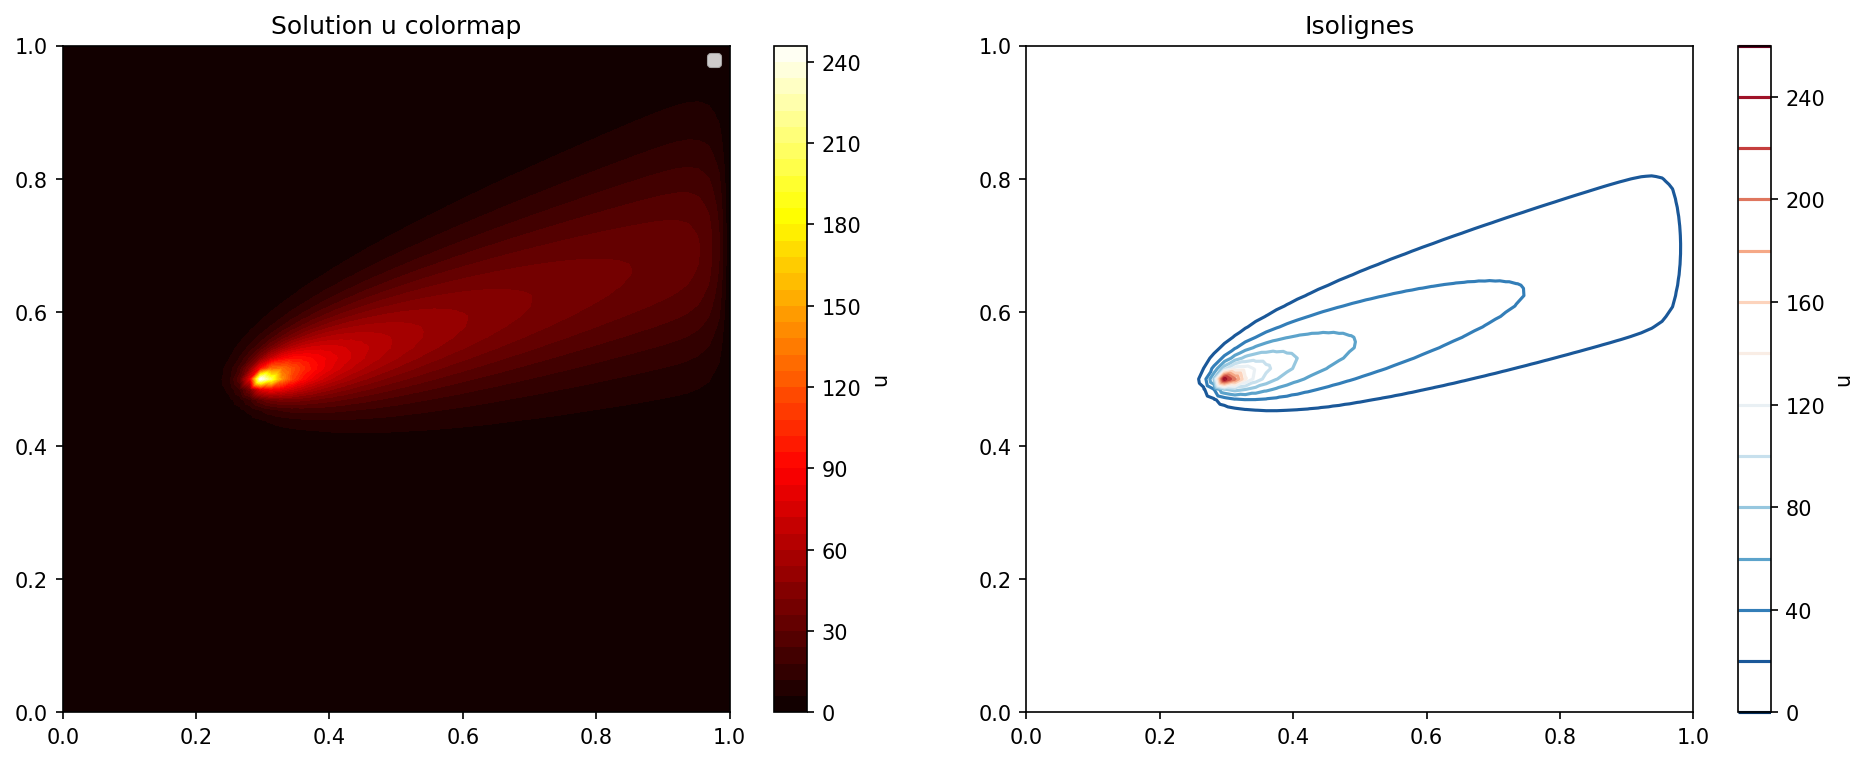
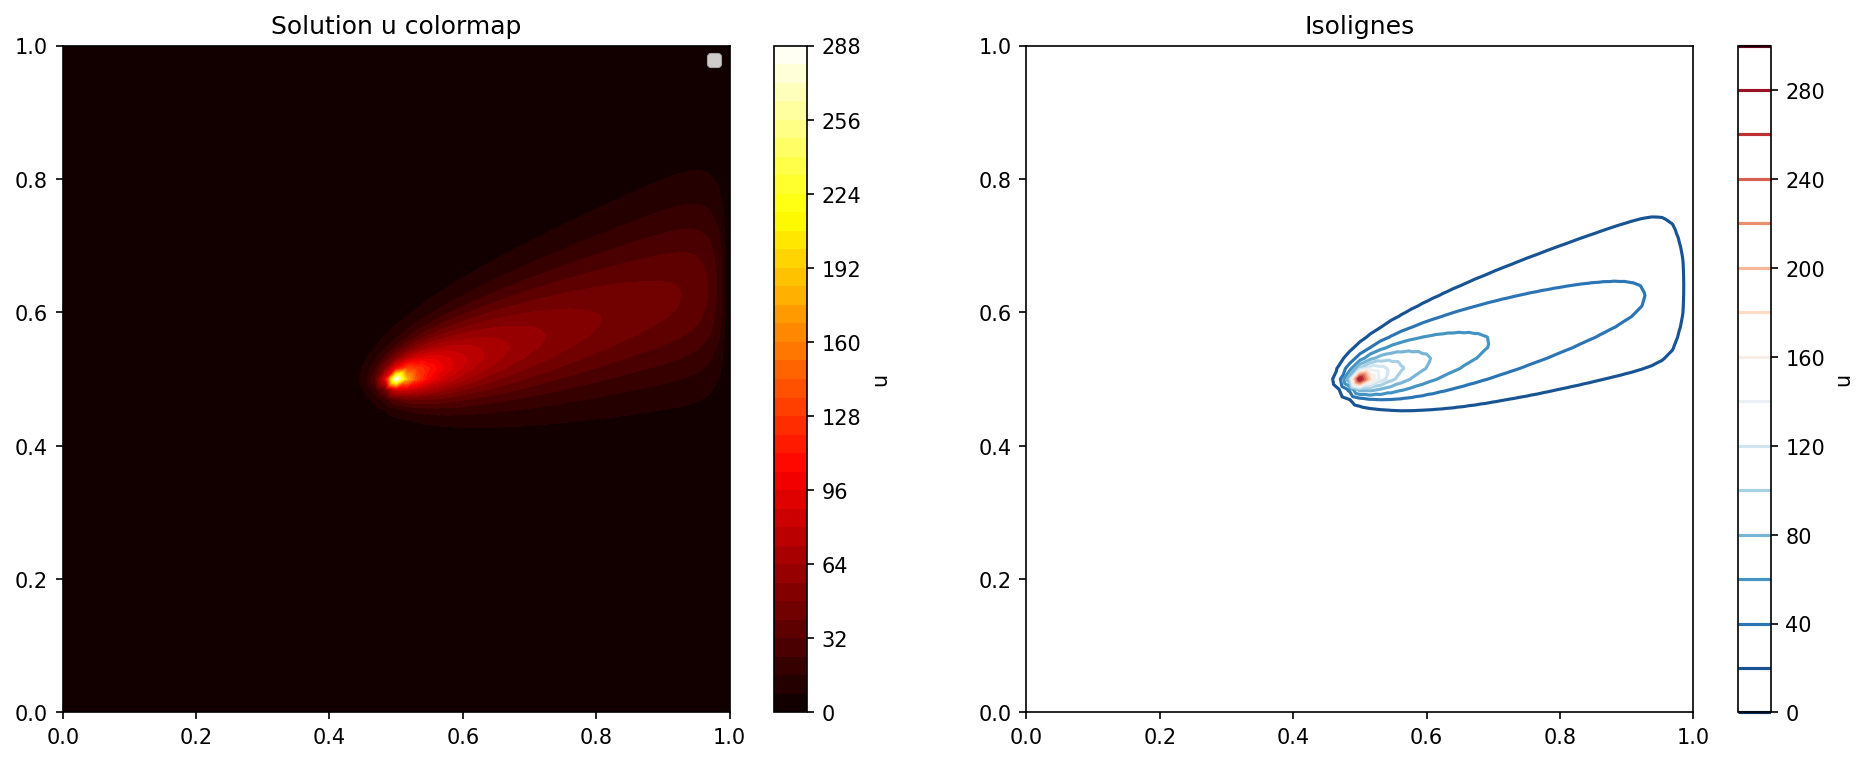
sim centré

diff --git a/utils/sim.py b/utils/sim.py
@@ -157,7 +157,7 @@ def simulate(
     D=1e-2,
     b_val=np.array([1.0, 0.3]),
     f=10.0,
-    x0=np.array([0.3, 0.5]),
+    x0=np.array([0.5, 0.5]),
     n=64,
     use_supg=True,
 ):
@@ -224,7 +224,6 @@ if __name__ == "__main__":
     u_sol = simulate()
     plot_sol(u_sol)
     grid = to_grid(u_sol, N_out=64)
-    print(grid.shape)
     plt.imsave("plots/convdiff_grid.png", grid, cmap="hot", vmin=0.0, vmax=grid.max())
     print("Grille sauvegardée → plots/convdiff_grid.png")
 
